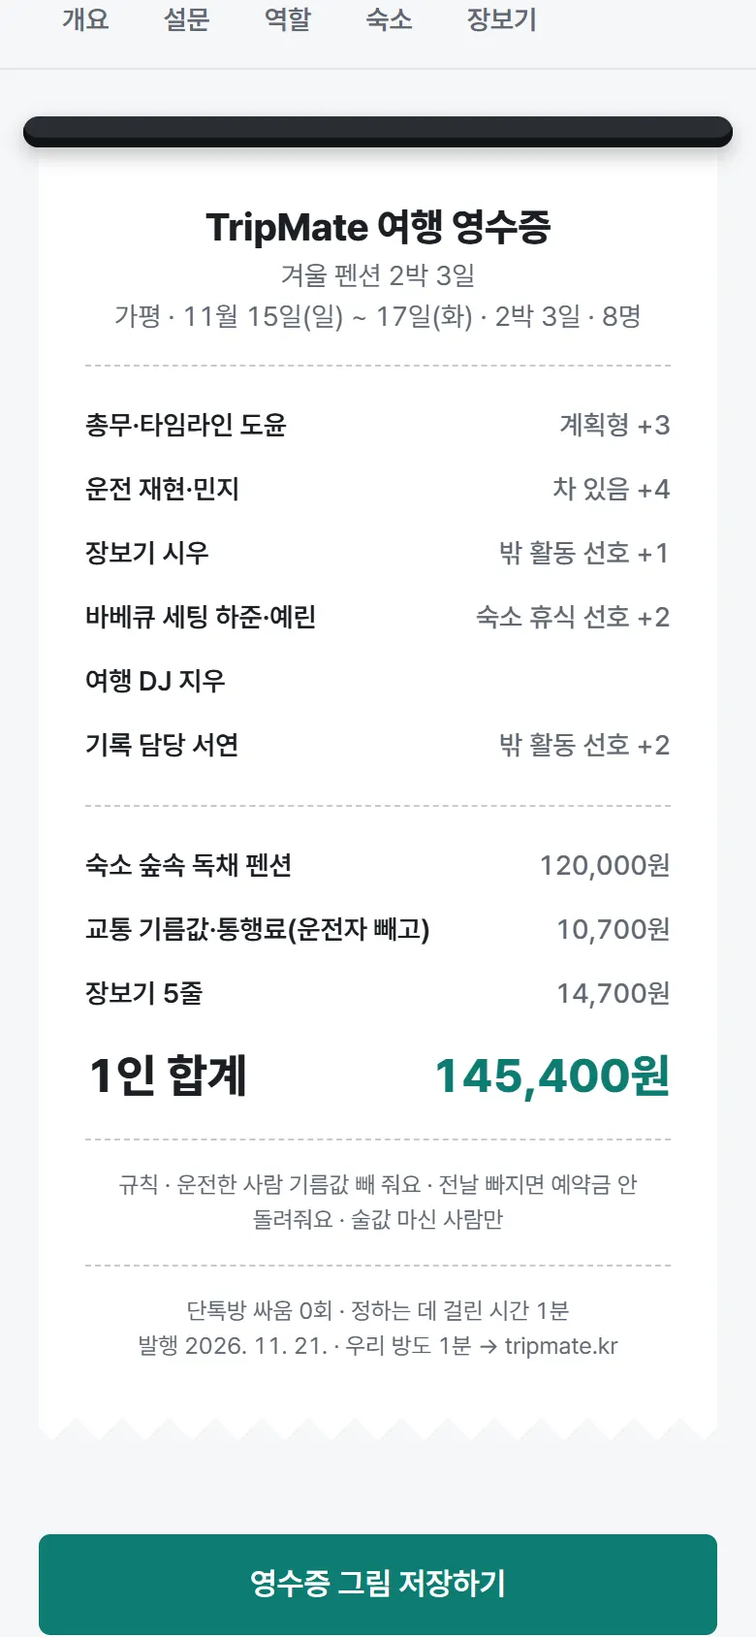
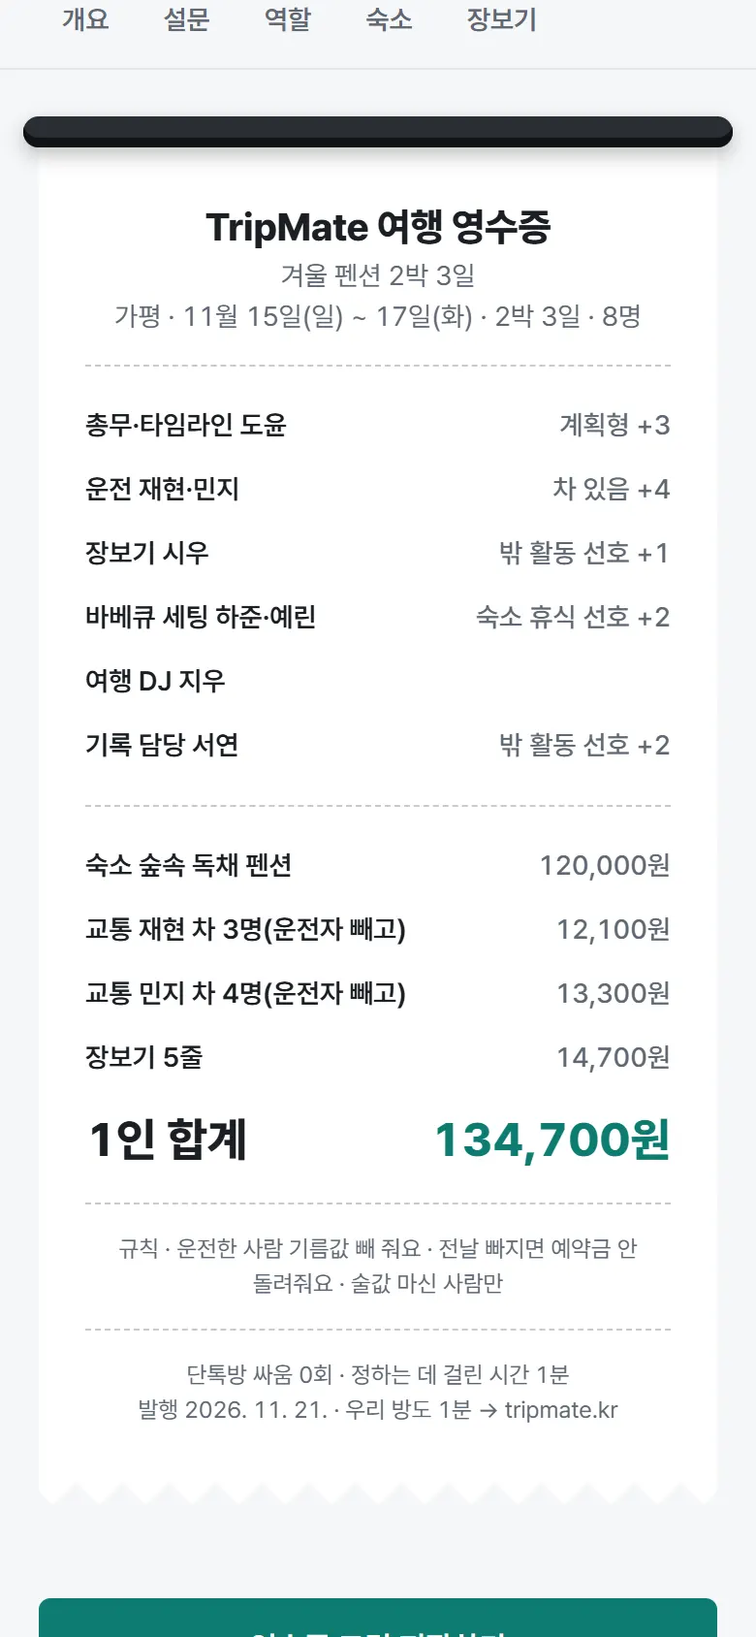
feat: 첫 화면에 차 장면, 끝 절을 PC·휴대폰 웹앱으로, PC 히어로 뒤 사진
- 흐름 절을 열 장으로. 역할 다음에 "차가 두 대면 차마다 따로"(차마다 태우는 곳, 따로 가요).
  화면은 최신 코드로 다시 찍었다
- 영수증이 단톡방에 올라가는 한 장인데 운전자가 보면 "교통 민지 차(운전자 빼고) 0원"이 찍혔다.
  차마다 "탄 사람 1인" 줄로 적고, 1인 합계에만 내 몫(따로 가면 0)을 더한다
- 끝 절: 가운데 한 줄이라 PC 에서 양옆이 비었다. 왼쪽은 말·시작 단추·웹앱 네 줄(설치 없이,
  휴대폰 1분·PC 큰 화면, 모두의 화면이 바로, 홈 화면에 추가하면 앱처럼), 오른쪽은 같은 방을 노트북과
  휴대폰으로 보는 실제 화면. 뒤 모닥불 사진은 PC 에서 천천히 다가온다
- 히어로 뒤(PC): 친구 여행 사진 셋이 옅게 18초마다 바뀌며 천천히 다가와 영상처럼 보인다.
  글씨 대비가 깨지지 않게 바탕색을 70~82% 덮고, 휴대폰은 받지도 않는다. 움직임 줄이기면 한 장만
- "홈 화면에 추가하면 앱처럼"이 말뿐이 아니게 manifest.json(standalone, 192·512 아이콘)을 넣었다

1440·1366x720·375 폭에서 옆으로 밀림 0, 끝 절 양쪽 균형을 화면으로 확인했다. 시험 163개 통과.

Changed region(s): [[0.1231, 0.5545, 0.8923, 0.8626], [0.0308, 0.9242, 0.9538, 1.0], [0.7692, 0.5545, 0.8, 0.6161]]

diff --git a/src/main/resources/templates/index.html b/src/main/resources/templates/index.html
@@ -17,6 +17,12 @@
 
   <!-- 처음 온 사람이 3초 안에 "무엇을 해 주는지"를 알게: 문제 한 줄 + 해 주는 일 + 실제 화면 -->
   <section class="hero">
+    <!-- 히어로 뒤 배경: PC 에서만 친구 여행 사진 셋이 옅게 천천히 바뀐다. 실제 사람들이 쓰는 영상이 생기면 이 자리에 video 로 바꾼다 -->
+    <div class="hero-bg" aria-hidden="true">
+      <span style="background-image:url('/img/photo/friends.jpg')"></span>
+      <span style="background-image:url('/img/photo/road-trip.jpg')"></span>
+      <span style="background-image:url('/img/photo/sea.jpg')"></span>
+    </div>
     <div class="stack loose">
       <h1>"운전 누가 해?"<br>이제 단톡방에서 안 싸워요.</h1>
       <p class="lead">친구들은 링크 누르고 1분. 운전·총무는 <b>"왜 나야?"까지</b>, 숙소는 <b>1인 얼마까지</b> 딱 나와요.</p>
@@ -173,69 +179,76 @@
        동그라미는 그 장면에서 누르는 곳 -->
   <section id="how" class="section tour">
     <h2>친구들은 뭘 하면 돼요? 링크 한 번 누르면 끝</h2>
-    <p class="muted">아래는 실제 앱 화면이에요. 8명이 가평 2박 3일을 정하고 다녀와서 나누기까지 그대로 찍었어요.</p>
+    <p class="muted">아래는 실제 앱 화면이에요. 8명이 가평 2박 3일을 정하고, 차 두 대로 다녀와서 나누기까지 그대로 찍었어요.</p>
     <div class="tour-grid">
       <ol class="tour-steps">
-      <li class="tour-step" data-shot="join" style="--x:50%;--y:64.6%">
-        <span class="tour-no">1</span>
-        <h3>초대 링크 누르고 이름만</h3>
-        <p class="muted">설치도 가입도 없이 이름 한 줄이면 방에 들어와요. 카카오로 이으면 다음 여행에도 나로 기억돼요.</p>
-        <figure class="tour-inline"><img th:src="@{/img/tour/join.webp}" alt="초대 링크를 연 화면. 이름 칸과 &quot;이름만 쓰고 바로 하기&quot; 단추" width="780" height="1688" loading="lazy" decoding="async"><span class="tap-ring" aria-hidden="true"></span></figure>
-      </li>
-      <li class="tour-step" data-shot="dates" style="--x:23.6%;--y:23.3%">
-        <span class="tour-no">2</span>
-        <h3>되는 날만 콕콕</h3>
-        <p class="muted">겹친 날이 진해지고 2박이 되는지 1박이 되는지 바로 나와요. 안 누른 친구는 &quot;콕 찌르기&quot;.</p>
-        <figure class="tour-inline"><img th:src="@{/img/tour/dates.webp}" alt="날짜 맞추기 달력. 여럿이 겹친 날이 진하게 칠해져 있다" width="780" height="1688" loading="lazy" decoding="async"><span class="tap-ring" aria-hidden="true"></span></figure>
-      </li>
-      <li class="tour-step" data-shot="roles" style="--x:24.6%;--y:3.8%">
-        <span class="tour-no">3</span>
-        <h3>설문 1분, 역할은 저절로</h3>
-        <p class="muted">운전 재현·민지 &quot;차 있음 +4&quot;. 왜 그 사람인지 근거가 같이 나오고, 결과는 카드 한 장으로 보내요.</p>
-        <figure class="tour-inline"><img th:src="@{/img/tour/roles.webp}" alt="역할 보드. 총무 도윤 계획형 +3, 운전 재현·민지 차 있음 +4" width="780" height="1688" loading="lazy" decoding="async"><span class="tap-ring" aria-hidden="true"></span></figure>
-      </li>
-      <li class="tour-step" data-shot="stays" style="--x:79.8%;--y:37.9%">
-        <span class="tour-no">4</span>
-        <h3>숙소는 1인 얼마로 비교</h3>
-        <p class="muted">지도 앱에서 &quot;공유&quot;만 눌러 붙이면 이름·사진이 채워져요. &quot;독채 없음&quot;처럼 누가 싫어할지도 보여요.</p>
-        <figure class="tour-inline"><img th:src="@{/img/tour/stays.webp}" alt="숙소 후보 셋. 1박 48만원 8명이면 1인 약 6만원, 표 4" width="780" height="1688" loading="lazy" decoding="async"><span class="tap-ring" aria-hidden="true"></span></figure>
-      </li>
-      <li class="tour-step" data-shot="shopping" style="--x:78.6%;--y:34.3%">
-        <span class="tour-no">5</span>
-        <h3>장보기는 &quot;내가 살게&quot;</h3>
-        <p class="muted">8명 2박이면 삼겹살 3.4kg, 소주 10병. 누가 무엇을 사는지 겹치지 않아요.</p>
-        <figure class="tour-inline"><img th:src="@{/img/tour/shopping.webp}" alt="장보기 목록. 삼겹살 3.4kg 서연이 사요, 목살 내가 살게 단추" width="780" height="1688" loading="lazy" decoding="async"><span class="tap-ring" aria-hidden="true"></span></figure>
-      </li>
-      <li class="tour-step" data-shot="dues" style="--x:50%;--y:37.9%">
-        <span class="tour-no">6</span>
-        <h3>회비는 &quot;냈어요&quot; 한 번</h3>
-        <p class="muted">총무에게 미리 걷고 누가 냈는지 한눈에. 남은 돈은 다녀와서 저절로 돌려줘요.</p>
-        <figure class="tour-inline"><img th:src="@{/img/tour/dues.webp}" alt="회비 카드. 1인 10만원 도윤에게, 4/7명 냈어요" width="780" height="1688" loading="lazy" decoding="async"><span class="tap-ring" aria-hidden="true"></span></figure>
-      </li>
-      <li class="tour-step" data-shot="receipt" style="--x:50%;--y:96.8%">
-        <span class="tour-no">7</span>
-        <h3>정하고 나면 영수증 한 장</h3>
-        <p class="muted">역할·숙소·교통비·장보기까지 1인 얼마를 그림 한 장으로 단톡방에.</p>
-        <figure class="tour-inline"><img th:src="@{/img/tour/receipt.webp}" alt="여행 영수증. 1인 합계 145,400원" width="780" height="1688" loading="lazy" decoding="async"><span class="tap-ring" aria-hidden="true"></span></figure>
-      </li>
-      <li class="tour-step" data-shot="settle" style="--x:75.6%;--y:28.1%">
-        <span class="tour-no">8</span>
-        <h3>다녀와선 누가 누구에게 얼마</h3>
-        <p class="muted">회비·기름값·장보기를 우리 규칙대로 셈해서 보낼 줄만. &quot;받았어요&quot; 한 번이면 그 줄이 빠져요.</p>
-        <figure class="tour-inline"><img th:src="@{/img/tour/settle.webp}" alt="정산. 도윤이 민지에게 89,000원, 받았어요 단추" width="780" height="1688" loading="lazy" decoding="async"><span class="tap-ring" aria-hidden="true"></span></figure>
-      </li>
-      <li class="tour-step" data-shot="next" style="--x:24.3%;--y:32%">
-        <span class="tour-no">9</span>
-        <h3>이 멤버로 2탄</h3>
-        <p class="muted">사람·규칙은 그대로 새 방을 열어요. 초대 링크를 다시 돌릴 필요 없이 날짜만 맞추면 돼요.</p>
-        <figure class="tour-inline"><img th:src="@{/img/tour/next.webp}" alt="다녀온 뒤 방 화면. 이 멤버로 2탄, 2탄 방 열기 단추" width="780" height="1688" loading="lazy" decoding="async"><span class="tap-ring" aria-hidden="true"></span></figure>
-      </li>
+        <li class="tour-step" data-shot="join" style="--x:50%;--y:64.6%">
+          <span class="tour-no">1</span>
+          <h3>초대 링크 누르고 이름만</h3>
+          <p class="muted">설치도 가입도 없이 이름 한 줄이면 방에 들어와요. 카카오로 이으면 다음 여행에도 나로 기억돼요.</p>
+          <figure class="tour-inline"><img th:src="@{/img/tour/join.webp}" alt="초대 링크를 연 화면. 이름 칸과 &quot;이름만 쓰고 바로 하기&quot; 단추" width="780" height="1688" loading="lazy" decoding="async"><span class="tap-ring" aria-hidden="true"></span></figure>
+        </li>
+        <li class="tour-step" data-shot="dates" style="--x:23.6%;--y:23.3%">
+          <span class="tour-no">2</span>
+          <h3>되는 날만 콕콕</h3>
+          <p class="muted">겹친 날이 진해지고 2박이 되는지 1박이 되는지 바로 나와요. 안 누른 친구는 &quot;콕 찌르기&quot;.</p>
+          <figure class="tour-inline"><img th:src="@{/img/tour/dates.webp}" alt="날짜 맞추기 달력. 여럿이 겹친 날이 진하게 칠해져 있다" width="780" height="1688" loading="lazy" decoding="async"><span class="tap-ring" aria-hidden="true"></span></figure>
+        </li>
+        <li class="tour-step" data-shot="roles" style="--x:24.6%;--y:3.8%">
+          <span class="tour-no">3</span>
+          <h3>설문 1분, 역할은 저절로</h3>
+          <p class="muted">운전 재현·민지 &quot;차 있음 +4&quot;. 왜 그 사람인지 근거가 같이 나오고, 결과는 카드 한 장으로 보내요.</p>
+          <figure class="tour-inline"><img th:src="@{/img/tour/roles.webp}" alt="역할 보드. 총무 도윤 계획형 +3, 운전 재현·민지 차 있음 +4" width="780" height="1688" loading="lazy" decoding="async"><span class="tap-ring" aria-hidden="true"></span></figure>
+        </li>
+        <li class="tour-step" data-shot="cars" style="--x:81.5%;--y:47.4%">
+          <span class="tour-no">4</span>
+          <h3>차가 두 대면 차마다 따로</h3>
+          <p class="muted">사는 동네가 달라도 차마다 가까운 곳에서 태워요. 안 고르면 저절로 나뉘고, 기름값은 그 차에 탄 사람끼리.</p>
+          <figure class="tour-inline"><img th:src="@{/img/tour/cars.webp}" alt="차 나누기. 재현 차 합정역 오전 9시, 민지 차 수원역 오전 8시, 시우는 따로 가요" width="780" height="1688" loading="lazy" decoding="async"><span class="tap-ring" aria-hidden="true"></span></figure>
+        </li>
+        <li class="tour-step" data-shot="stays" style="--x:79.8%;--y:37.9%">
+          <span class="tour-no">5</span>
+          <h3>숙소는 1인 얼마로 비교</h3>
+          <p class="muted">지도 앱에서 &quot;공유&quot;만 눌러 붙이면 이름·사진이 채워져요. &quot;독채 없음&quot;처럼 누가 싫어할지도 보여요.</p>
+          <figure class="tour-inline"><img th:src="@{/img/tour/stays.webp}" alt="숙소 후보 셋. 1박 48만원 8명이면 1인 약 6만원, 표 4" width="780" height="1688" loading="lazy" decoding="async"><span class="tap-ring" aria-hidden="true"></span></figure>
+        </li>
+        <li class="tour-step" data-shot="shopping" style="--x:78.6%;--y:34.3%">
+          <span class="tour-no">6</span>
+          <h3>장보기는 &quot;내가 살게&quot;</h3>
+          <p class="muted">8명 2박이면 삼겹살 3.4kg, 소주 10병. 누가 무엇을 사는지 겹치지 않아요.</p>
+          <figure class="tour-inline"><img th:src="@{/img/tour/shopping.webp}" alt="장보기 목록. 삼겹살 3.4kg 서연이 사요, 목살 내가 살게 단추" width="780" height="1688" loading="lazy" decoding="async"><span class="tap-ring" aria-hidden="true"></span></figure>
+        </li>
+        <li class="tour-step" data-shot="dues" style="--x:50%;--y:37.9%">
+          <span class="tour-no">7</span>
+          <h3>회비는 &quot;냈어요&quot; 한 번</h3>
+          <p class="muted">총무에게 미리 걷고 누가 냈는지 한눈에. 남은 돈은 다녀와서 저절로 돌려줘요.</p>
+          <figure class="tour-inline"><img th:src="@{/img/tour/dues.webp}" alt="회비 카드. 1인 10만원 도윤에게, 4/7명 냈어요" width="780" height="1688" loading="lazy" decoding="async"><span class="tap-ring" aria-hidden="true"></span></figure>
+        </li>
+        <li class="tour-step" data-shot="receipt" style="--x:50%;--y:95%">
+          <span class="tour-no">8</span>
+          <h3>정하고 나면 영수증 한 장</h3>
+          <p class="muted">역할·숙소·차마다 교통비·장보기까지 1인 얼마를 그림 한 장으로 단톡방에.</p>
+          <figure class="tour-inline"><img th:src="@{/img/tour/receipt.webp}" alt="여행 영수증. 역할, 숙소, 차마다 교통비, 1인 합계" width="780" height="1688" loading="lazy" decoding="async"><span class="tap-ring" aria-hidden="true"></span></figure>
+        </li>
+        <li class="tour-step" data-shot="settle" style="--x:75.6%;--y:35.4%">
+          <span class="tour-no">9</span>
+          <h3>다녀와선 누가 누구에게 얼마</h3>
+          <p class="muted">회비·기름값·장보기를 우리 규칙대로 셈해서 보낼 줄만. &quot;받았어요&quot; 한 번이면 그 줄이 빠져요.</p>
+          <figure class="tour-inline"><img th:src="@{/img/tour/settle.webp}" alt="정산. 보낼 줄과 받았어요 단추" width="780" height="1688" loading="lazy" decoding="async"><span class="tap-ring" aria-hidden="true"></span></figure>
+        </li>
+        <li class="tour-step" data-shot="next" style="--x:24.3%;--y:32%">
+          <span class="tour-no">10</span>
+          <h3>이 멤버로 2탄</h3>
+          <p class="muted">사람·규칙은 그대로 새 방을 열어요. 초대 링크를 다시 돌릴 필요 없이 날짜만 맞추면 돼요.</p>
+          <figure class="tour-inline"><img th:src="@{/img/tour/next.webp}" alt="다녀온 뒤 방 화면. 이 멤버로 2탄, 2탄 방 열기 단추" width="780" height="1688" loading="lazy" decoding="async"><span class="tap-ring" aria-hidden="true"></span></figure>
+        </li>
       </ol>
       <div class="tour-stage" aria-hidden="true">
         <div class="phone tour-phone"><div class="phone-screen">
           <img class="tour-shot on" data-shot="join" th:src="@{/img/tour/join.webp}" alt="" width="780" height="1688" decoding="async">
           <img class="tour-shot" data-shot="dates" th:src="@{/img/tour/dates.webp}" alt="" width="780" height="1688" loading="lazy" decoding="async">
           <img class="tour-shot" data-shot="roles" th:src="@{/img/tour/roles.webp}" alt="" width="780" height="1688" loading="lazy" decoding="async">
+          <img class="tour-shot" data-shot="cars" th:src="@{/img/tour/cars.webp}" alt="" width="780" height="1688" loading="lazy" decoding="async">
           <img class="tour-shot" data-shot="stays" th:src="@{/img/tour/stays.webp}" alt="" width="780" height="1688" loading="lazy" decoding="async">
           <img class="tour-shot" data-shot="shopping" th:src="@{/img/tour/shopping.webp}" alt="" width="780" height="1688" loading="lazy" decoding="async">
           <img class="tour-shot" data-shot="dues" th:src="@{/img/tour/dues.webp}" alt="" width="780" height="1688" loading="lazy" decoding="async">
@@ -345,10 +358,29 @@
   </section>
 
   <!-- 마지막 권유: 모닥불 사진 위. Unsplash 무료 사진(unsplash.com/photos/_P-O42qV68I) -->
-  <section class="cta stack">
-    <h2>정하다 지치는 여행, 여기서 끝</h2>
-    <p class="muted">방 만들기 30초, 친구들은 다섯 번 탭. 무료예요.</p>
-    <div><a th:href="@{/trips/new}" class="btn primary big">우리 방 만들기 (30초)</a></div>
+  <!-- 마지막 권유: 왼쪽은 말과 시작 단추, 오른쪽은 같은 방을 노트북·휴대폰으로 보는 실제 화면(웹앱이라 어디서나).
+       뒤 모닥불 사진은 PC 에서 천천히 다가오게 움직여 영상처럼(움직임 줄이기면 멈춘다) -->
+  <section class="cta">
+    <div class="cta-inner">
+      <div class="cta-copy stack">
+        <h2>정하다 지치는 여행, 여기서 끝</h2>
+        <p class="muted">방 만들기 30초, 친구들은 다섯 번 탭. 무료예요.</p>
+        <ul class="cta-points">
+          <li><b>설치 없이</b> 카톡 링크 하나로 바로</li>
+          <li><b>휴대폰</b>에선 1분, <b>PC</b>에선 큰 화면으로 정리</li>
+          <li>누가 바꾸면 <b>모두의 화면이 바로</b> 바뀌어요</li>
+          <li>홈 화면에 추가하면 <b>앱처럼</b> 열려요</li>
+        </ul>
+        <div class="row wrap cta-actions">
+          <a th:href="@{/trips/new}" class="btn primary big">우리 방 만들기 (30초)</a>
+          <a th:href="@{/demo}" class="btn big ghost">체험 방 둘러보기</a>
+        </div>
+      </div>
+      <div class="devices" aria-hidden="true">
+        <div class="laptop"><div class="laptop-screen"><img th:src="@{/img/tour/pc.webp}" alt="" width="1920" height="1200" loading="lazy" decoding="async"></div><div class="laptop-base"></div></div>
+        <div class="phone mini-device"><div class="phone-screen"><img th:src="@{/img/tour/cars.webp}" alt="" width="780" height="1688" loading="lazy" decoding="async"></div></div>
+      </div>
+    </div>
   </section>
 
   <footer class="site-footer stack">

diff --git a/src/main/resources/static/css/style.css b/src/main/resources/static/css/style.css
@@ -855,3 +855,42 @@ textarea.paste-box { resize: none; font: inherit; line-height: 1.45; min-height:
 .ov-cars .car { padding: 12px; border: 1px solid var(--line); border-radius: var(--radius-sm); gap: 8px; }
 .ov-cars .car.mine { border-color: var(--accent); }
 .ov-cars input[type=text] { margin-top: 4px; }
+
+/* 히어로 뒤 배경(PC): 사진 셋이 18초마다 번갈아 옅게, 천천히 다가오며. 휴대폰은 숨긴다(데이터·배터리) */
+.hero-bg { display: none; }
+@media (min-width: 960px) {
+  /* 히어로 안에서 화면 끝까지 넓힌다. isolation 으로 히어로 안에서만 뒤에 깔려 아래 절을 덮지 않는다 */
+  .hero { position: relative; isolation: isolate; }
+  .hero-bg { display: block; position: absolute; top: -96px; bottom: -32px; left: calc(50% - 50vw); width: 100vw; overflow: hidden; z-index: -1; pointer-events: none; }
+  .hero-bg::after { content: ""; position: absolute; inset: 0;
+    background: linear-gradient(to bottom, color-mix(in srgb, var(--bg) 70%, transparent), color-mix(in srgb, var(--bg) 82%, transparent) 60%, var(--bg)); }
+  .hero-bg span { position: absolute; inset: -4%; background: center / cover no-repeat; opacity: 0; filter: saturate(0.9) blur(1px);
+    animation: hero-fade 54s linear infinite, hero-drift 54s ease-in-out infinite; }
+  .hero-bg span:nth-child(2) { animation-delay: -36s, -36s; }
+  .hero-bg span:nth-child(3) { animation-delay: -18s, -18s; }
+}
+@keyframes hero-fade { 0% { opacity: 0; } 6% { opacity: 0.55; } 30% { opacity: 0.55; } 37% { opacity: 0; } 100% { opacity: 0; } }
+@keyframes hero-drift { from { transform: scale(1) translate(0, 0); } to { transform: scale(1.12) translate(-2%, -1%); } }
+@media (prefers-reduced-motion: reduce) { .hero-bg span:first-child { opacity: 0.4; } }
+
+/* 마지막 권유: 휴대폰은 가운데 한 줄, PC 는 왼쪽 말 · 오른쪽 노트북+휴대폰으로 양쪽을 맞춘다 */
+.cta { position: relative; overflow: hidden; text-align: left; }
+.cta-inner { position: relative; max-width: 1040px; margin: 0 auto; display: grid; gap: 40px; }
+.cta-copy { justify-items: start; }
+.cta-copy p { margin-inline: 0; }
+.cta-points { display: grid; gap: 8px; padding: 0; list-style: none; font-size: var(--fs-md); }
+.cta-points li::before { content: "✓"; margin-right: 8px; color: #6ee7d8; font-weight: 700; }
+.cta-actions { margin-top: 8px; }
+.cta .btn.ghost { background: rgb(255 255 255 / 0.12); color: #fff; border-color: rgb(255 255 255 / 0.4); }
+.devices { position: relative; justify-self: center; width: min(560px, 100%); padding-bottom: 24px; }
+.laptop-screen { border: 10px solid #111418; border-bottom-width: 14px; border-radius: 14px 14px 0 0; background: #111418; overflow: hidden; aspect-ratio: 16 / 10; box-shadow: 0 30px 60px rgb(0 0 0 / 0.45); }
+.laptop-screen img { display: block; width: 100%; height: 100%; object-fit: cover; object-position: top; }
+.laptop-base { height: 14px; margin: 0 -6%; border-radius: 0 0 14px 14px; background: linear-gradient(#cfd4da, #8b939c); }
+.devices .mini-device { position: absolute; right: -4%; bottom: 0; width: 30%; padding: 6px; border-radius: 26px; }
+.devices .mini-device .phone-screen { height: auto; aspect-ratio: 390 / 844; border-radius: 20px; }
+.devices .mini-device img { display: block; width: 100%; height: 100%; object-fit: cover; object-position: top; }
+@media (min-width: 960px) {
+  .cta-inner { grid-template-columns: 1fr 1.1fr; align-items: center; column-gap: 64px; }
+  .cta::before { content: ""; position: absolute; inset: -6%; z-index: 0; background: inherit; animation: hero-drift 40s ease-in-out infinite alternate; }
+  .cta > * { position: relative; z-index: 1; }
+}

diff --git a/src/main/resources/static/js/receipt.js b/src/main/resources/static/js/receipt.js
@@ -48,13 +48,17 @@ function buildLines(trip, board, stays, travel, shopping) {
   // 교통: 차를 나눴으면 내가 탄 차 값, 따로 가면 빠진다. 안 나눴으면 모두 나눈 값
   var carLegs = travel ? travel.legs.filter(function (l) { return l.perRider !== null; }) : [];
   var myCar = carLegs.find(function (l) { return l.memberId === trip.meId || l.riderIds.indexOf(trip.meId) >= 0; });
-  if (myCar) {
-    var carExempt = trip.rules.driverPaysFuel === false && myCar.perPassenger !== null;
-    var mine = carExempt ? (myCar.memberId === trip.meId ? 0 : myCar.perPassenger) : myCar.perRider;
-    out.push({ kind: 'row', left: '교통  ' + myCar.name + ' 차' + (carExempt ? '(운전자 빼고)' : ''), right: won(mine) });
+  if (carLegs.length) {
+    // 영수증은 단톡방에 그대로 올라가는 한 장이라 운전자 본인 몫(0원)이 아니라 차마다 "탄 사람 1인"을 줄로 적는다.
+    // 1인 합계에는 내가 탄 차 값(운전자 빼기 규칙이면 운전자는 0, 따로 가면 0)을 더한다
+    var exemptRule = trip.rules.driverPaysFuel === false;
+    carLegs.forEach(function (l) {
+      var each = exemptRule && l.perPassenger !== null ? l.perPassenger : l.perRider;
+      out.push({ kind: 'row', left: '교통  ' + l.name + ' 차 ' + (l.riderIds.length + 1) + '명' + (exemptRule ? '(운전자 빼고)' : ''), right: won(each) });
+    });
+    var mine = 0;
+    if (myCar) mine = exemptRule && myCar.perPassenger !== null ? (myCar.memberId === trip.meId ? 0 : myCar.perPassenger) : myCar.perRider;
     total += mine;
-  } else if (carLegs.length) {
-    out.push({ kind: 'row', left: '교통  따로 가요', right: won(0) });
   } else if (travel && travel.perPerson !== null) {
     var exempt = trip.rules.driverPaysFuel === false && travel.perPassenger !== null;
     var move = exempt ? travel.perPassenger : travel.perPerson;

diff --git a/src/main/resources/templates/fragments/common.html b/src/main/resources/templates/fragments/common.html
@@ -18,6 +18,8 @@
   <meta property="og:description" th:content="${ogDescription} ?: '설문 1분이면 역할은 근거와 함께, 숙소는 의견 갈림까지 보여요. 앱 설치 없이 카톡 링크로.'">
   <link rel="icon" type="image/svg+xml" th:href="@{/img/logo-mark.svg}">
   <link rel="apple-touch-icon" th:href="@{/img/apple-touch-icon.png}">
+  <!-- 홈 화면에 추가하면 주소창 없이 앱처럼 열린다(설치 없이 쓰는 웹앱이라는 말이 실제로 맞게) -->
+  <link rel="manifest" th:href="@{/manifest.json}">
   <meta property="og:image" th:content="${baseUrl} + '/img/og.png'">
   <meta property="og:image:width" content="1200">
   <meta property="og:image:height" content="630">

diff --git a/src/test/java/com/tripmate/PageTest.java b/src/test/java/com/tripmate/PageTest.java
@@ -50,12 +50,15 @@ class PageTest {
     void 정적_파일() throws Exception {
         mvc.perform(get("/css/style.css")).andExpect(status().isOk());
         mvc.perform(get("/js/common.js")).andExpect(status().isOk());
+        // 홈 화면에 추가(웹앱): 이름·아이콘·standalone
+        mvc.perform(get("/manifest.json")).andExpect(status().isOk()).andExpect(content().string(containsString("\"standalone\"")));
+        mvc.perform(get("/img/icon-512.png")).andExpect(status().isOk());
     }
 
     @Test
-    void 첫_화면_이렇게_굴러가요는_실제_화면_아홉_장() throws Exception {
+    void 첫_화면_이렇게_굴러가요는_실제_화면_열_장() throws Exception {
         var html = mvc.perform(get("/")).andReturn().getResponse().getContentAsString();
-        for (var shot : new String[]{"join", "dates", "roles", "stays", "shopping", "dues", "receipt", "settle", "next"}) {
+        for (var shot : new String[]{"join", "dates", "roles", "cars", "stays", "shopping", "dues", "receipt", "settle", "next"}) {
             assertThat(html).contains("/img/tour/" + shot + "-"); // 파일 이름 뒤에 내용 해시가 붙는다(캐시 깨기)
             mvc.perform(get("/img/tour/" + shot + ".webp")).andExpect(status().isOk());
         }
